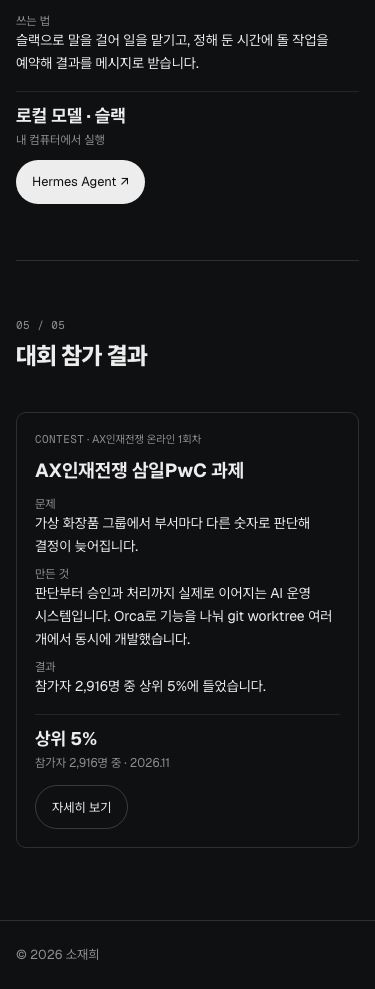
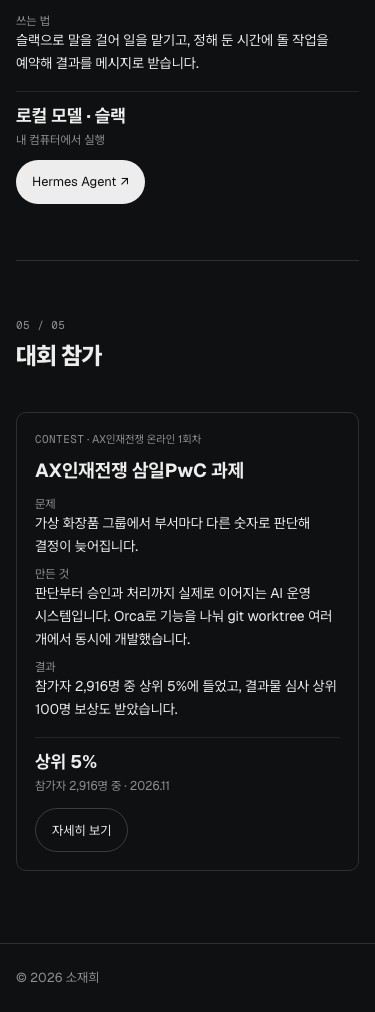
docs: record the shorter contest group name and retake its captures

diff --git a/src/app/ai/axwar/page.tsx b/src/app/ai/axwar/page.tsx
@@ -8,7 +8,7 @@ import { getAxwar, getHome } from "@/lib/content";
 import { pageMetadata } from "@/lib/site-meta";
 
 // AX인재전쟁 대회 결과 (docs/02-ia.md /ai/axwar). 돌아가기 링크 → 머리(대회 이름, 결과, 참가자, 인증서 카드, 덧붙임) → 본문 → 끝 버튼 줄(인증서 보기, AI로 일하는 방식) 순서다.
-// 글은 사이트 전용 글(content/site/axwar.md)이다. 홈과 /resume의 대회 결과 띠, /ai 맨 끝 대회 참가 결과 묶음의 카드가 이 페이지로 온다.
+// 글은 사이트 전용 글(content/site/axwar.md)이다. 홈과 /resume의 대회 결과 띠, /ai 맨 끝 대회 참가 묶음의 카드가 이 페이지로 온다.
 // 머리는 결과를 크게 보여 주는 이 페이지만의 모양이라 SectionHead를 쓰지 않는다. 메신저에서 링크를 열면
 // 첫 화면 안에 결과, 인증서 카드, 덧붙임이 다 들어오게 한 배치다(설계 배치 B, 카드는 2026-11-27 비교판 B).
 // 목차가 없는 서브페이지라 /ai/case, /ai/jake-english처럼 맨 위로 버튼과 다음 페이지 버튼은 두지 않는다.

diff --git a/src/lib/content.ts b/src/lib/content.ts
@@ -214,7 +214,7 @@ export type JakeEnglish = {
   stack: JakeEnglishStack[];
 };
 
-/** AX인재전쟁 대회 결과 사이트 전용 글 (content/site/axwar.md, /ai/axwar). 홈과 /resume의 대회 결과 띠, /ai 맨 끝 대회 참가 결과 묶음의 카드가 이 페이지로 온다 */
+/** AX인재전쟁 대회 결과 사이트 전용 글 (content/site/axwar.md, /ai/axwar). 홈과 /resume의 대회 결과 띠, /ai 맨 끝 대회 참가 묶음의 카드가 이 페이지로 온다 */
 export type Axwar = {
   /** 브라우저와 공유 제목의 앞부분(뒤에 " · 소재희") */
   title: string;

diff --git a/src/components/ai/ai-short.tsx b/src/components/ai/ai-short.tsx
@@ -4,7 +4,7 @@ import type { AiWork } from "@/lib/content";
 import { Eyebrow, Facts } from "./ai-text";
 
 // /ai의 짧은 카드 (docs/02-ia.md /ai). 원문이 다른 페이지(/work의 AI 절이나 /ai 아래 페이지)에 있는 항목이라
-// 한 줄씩만 쓰고 그곳으로 보낸다. 대회 참가 결과의 카드는 /ai/axwar로 간다.
+// 한 줄씩만 쓰고 그곳으로 보낸다. 대회 참가의 카드는 /ai/axwar로 간다.
 // 같은 글을 두 페이지에 싣지 않는다.
 export function AiShort({ work }: { work: AiWork }) {
   const titleId = `${work.slug}-title`;

diff --git a/src/app/ai/page.tsx b/src/app/ai/page.tsx
@@ -12,7 +12,7 @@ import { STORY_IMAGES } from "@/lib/jake-english-images";
 import { nextPage } from "@/lib/nav";
 import { pageMetadata } from "@/lib/site-meta";
 
-// AI로 일하는 방식 (docs/02-ia.md /ai). 머리 → 입구 띠 둘 → 목차 → 다섯 묶음(맨 끝은 대회 참가 결과). 머리 글은 홈 섹션과 같다.
+// AI로 일하는 방식 (docs/02-ia.md /ai). 머리 → 입구 띠 둘 → 목차 → 다섯 묶음(맨 끝은 대회 참가). 머리 글은 홈 섹션과 같다.
 const { ai } = getHome().sections;
 
 export const metadata: Metadata = pageMetadata({

diff --git a/docs/superpowers/plans/2026-11-27-ai-contest-section.md b/docs/superpowers/plans/2026-11-27-ai-contest-section.md
@@ -1,8 +1,8 @@
-# `/ai` 다섯째 묶음 "대회 참가 결과" 구현 계획
+# `/ai` 다섯째 묶음 "대회 참가" 구현 계획
 
 > **For agentic workers:** REQUIRED SUB-SKILL: Use superpowers:subagent-driven-development (recommended) or superpowers:executing-plans to implement this plan task-by-task. Steps use checkbox (`- [ ]`) syntax for tracking.
 
-**Goal:** `/ai` 맨 끝에 다섯째 묶음 "대회 참가 결과"를 더하고 AX인재전쟁 카드 하나를 두어 `/ai/axwar`로 보내며, `/ai/axwar` 끝 줄의 인증서 버튼을 되살리고, PR #69의 후속 작업 네 가지를 함께 끝냅니다.
+**Goal:** `/ai` 맨 끝에 다섯째 묶음 "대회 참가"를 더하고 AX인재전쟁 카드 하나를 두어 `/ai/axwar`로 보내며, `/ai/axwar` 끝 줄의 인증서 버튼을 되살리고, PR #69의 후속 작업 네 가지를 함께 끝냅니다.
 
 **Architecture:** 다른 항목처럼 항목 글 `content/site/ai/axwar.md`(짧은 카드, `group: contest`)를 더하고 `ai-page.md`에 묶음을 더하면 지금 `/ai` 코드가 그대로 그립니다. 바뀌는 코드는 목차의 데스크톱 칸 수(네 칸 → 다섯 칸)와 형(`AiGroup`)뿐입니다. 카드의 숫자와 문장이 `/ai/axwar` 글과 어긋나지 않는지는 내용 시험이 봅니다.
 
@@ -12,7 +12,7 @@
 
 ## Global Constraints
 
-- 묶음: id `contest`, 이름 `대회 참가 결과`, 맨 끝(`05 / 05`).
+- 묶음: id `contest`, 이름 `대회 참가`, 맨 끝(`05 / 05`).
 - 카드: slug `axwar`, order `10`, 짧은 카드(`more: /ai/axwar`), `links: []`. 글은 설계 문서 "카드" 표의 초안 그대로입니다. 문구 확인은 PR 때 따로 받습니다.
 - 카드에 새 사실을 쓰지 않습니다. 대회 기간("하루 남짓", "이틀", "N일", "N시간")도 쓰지 않습니다.
 - 홈과 `/resume`의 띠, `/ai` 맨 위 입구 상자 두 개는 바꾸지 않습니다. `/ai/axwar`는 끝 버튼 줄만 바꿉니다(Task 2). 머리와 인증서 카드는 그대로입니다.
@@ -39,7 +39,7 @@ Run: `npx playwright test -c .superpowers/pw-dev.config.ts <spec> [-g <이름>]`
 
 ## Review Focus
 
-- 가장 좁은 데스크톱 폭(1024)에서 목차 다섯 칸이 한 줄에 있고, "대회 참가 결과"가 꺾이지 않아야 합니다(사용자 조건). → Task 1의 목차 E2E
+- 가장 좁은 데스크톱 폭(1024)에서 목차 다섯 칸이 한 줄에 있고, "대회 참가"가 꺾이지 않아야 합니다(사용자 조건). → Task 1의 목차 E2E
 - 카드의 "자세히 보기"는 사이트 안 링크라 같은 창에서 열리고 ↗가 없어야 합니다. → Task 1의 짧은 카드 E2E
 - `/ai/axwar` 글의 결과나 참가자 수가 바뀌면 카드 숫자도 같이 바뀌어야 합니다. → Task 1의 내용 시험
 - 375와 320에서 카드가 가로 스크롤을 만들지 않아야 합니다. → `e2e/ai.spec.ts`의 기존 가로 스크롤 시험(지금 폭)
@@ -57,7 +57,7 @@ Run: `npx playwright test -c .superpowers/pw-dev.config.ts <spec> [-g <이름>]`
 - Modify: `src/components/ai/ai-index.tsx` (`lg:grid-cols-4` → `lg:grid-cols-5`, 주석의 "네 칸")
 - Modify: `src/components/ai/ai-short.tsx` (주석: 원문이 다른 페이지, `/work`의 절이나 `/ai` 아래 페이지에 있는 항목)
 - Modify: `src/app/ai/page.tsx` (주석의 "네 묶음")
-- Modify: `src/app/ai/axwar/page.tsx` (주석 "/ai에는 입구가 없다" → `/ai` 맨 끝 대회 참가 결과 카드도 이 페이지로 온다)
+- Modify: `src/app/ai/axwar/page.tsx` (주석 "/ai에는 입구가 없다" → `/ai` 맨 끝 대회 참가 카드도 이 페이지로 온다)
 - Modify: `content/site/axwar.md` (주석의 들어오는 길에 `/ai` 카드)
 - Test: `scripts/lib/content.test.mjs`, `e2e/ai.spec.ts`
 
@@ -69,11 +69,11 @@ Run: `npx playwright test -c .superpowers/pw-dev.config.ts <spec> [-g <이름>]`
   - "sources의 문장은 …" 시험: 항목의 `more`가 `/ai/axwar`이면 원문 대신 `squash(axwar.body.join(" "))`에서 찾습니다. 시험 이름은 "sources의 문장은 원문(동기화한 이력서, 포트폴리오, 카드가 가리키는 페이지 글)에 그대로 있다"로 바꿉니다.
   - "AI 작업 글 …" 시험: `more`는 `/^(\/work#[a-z-]+-ai|\/ai\/[a-z-]+)$/`에 맞아야 합니다.
   - "짧은 카드가 가리키는 /work의 절은 실제로 있다" → "짧은 카드가 가리키는 곳은 실제로 있다": `/work#…`는 지금처럼 절을, `/ai/<이름>`은 `src/app/ai/<이름>/page.tsx`가 있는지 봅니다.
-  - 새 시험 "대회 참가 결과 카드는 /ai/axwar로 가고, 숫자는 그 페이지 글과 같다":
+  - 새 시험 "대회 참가 카드는 /ai/axwar로 가고, 숫자는 그 페이지 글과 같다":
 
 ```js
 const card = aiWorks.find((w) => w.data.group === "contest" && w.data.more === "/ai/axwar");
-assert.ok(card, "대회 참가 결과에 /ai/axwar 카드가 없음");
+assert.ok(card, "대회 참가에 /ai/axwar 카드가 없음");
 assert.equal(card.data.metric.value, axwar.result);
 assert.equal(card.data.metric.label, `${axwar.participants} · ${axwar.date}`);
 assert.ok(card.data.sources?.length > 0, "sources 없음");
@@ -88,7 +88,7 @@ assert.doesNotMatch(Object.values(card.data).filter((v) => typeof v === "string"
 - [ ] **Step 3: 빨강 확인**
 
 Run: `node --test scripts/lib/content.test.mjs`
-Expected: "대회 참가 결과 카드는 …" 실패(카드 없음)
+Expected: "대회 참가 카드는 …" 실패(카드 없음)
 
 - [ ] **Step 4: 시험 커밋**
 
@@ -99,7 +99,7 @@ test(app): cover the contest section on /ai
 EOF
 ```
 
-- [ ] **Step 5: 글 더하기** `content/site/ai-page.md`의 groups 끝에 `{ id: contest, title: 대회 참가 결과 }`, `content/site/ai/axwar.md`는 설계 문서 "카드" 표의 초안과 `sources`. 글 끝 주석에 출처(`content/site/axwar.md`의 어느 칸과 문단인지), 숫자는 내용 시험이 페이지 글과 맞춰 본다는 것, 기간을 쓰지 않는 이유, 대회가 늘면 이 묶음에 글을 하나씩 더한다는 것을 씁니다.
+- [ ] **Step 5: 글 더하기** `content/site/ai-page.md`의 groups 끝에 `{ id: contest, title: 대회 참가 }`, `content/site/ai/axwar.md`는 설계 문서 "카드" 표의 초안과 `sources`. 글 끝 주석에 출처(`content/site/axwar.md`의 어느 칸과 문단인지), 숫자는 내용 시험이 페이지 글과 맞춰 본다는 것, 기간을 쓰지 않는 이유, 대회가 늘면 이 묶음에 글을 하나씩 더한다는 것을 씁니다.
 
 - [ ] **Step 6: 목차가 꺾이는 것 확인 (빨강)**
 
@@ -218,7 +218,7 @@ EOF
 
 - [ ] **Step 2: 캡처** 비교판 그림(작업 폴더 밖 임시 폴더)을 1배로 줄여 `board-now-*`, `board-ga-*`, `board-na-*`(1280, 375), `board-index-now-*`, `board-index-five-*`(1280, 375, 1024)로 옮깁니다. 구현 캡처는 개발 서버에서 같은 스크립트 방식으로 찍습니다: `after-1280`, `after-375`, `after-1280-dark`, `after-375-dark`(넷째 묶음 끝부터 푸터까지), `index-1280`, `index-1024`, `index-375`. 한 장이 1MB를 넘지 않게 합니다.
 
-- [ ] **Step 3: 문서 고치기** 설계 문서 "함께 고칠 문서"를 따릅니다. 뒤집은 결정은 날짜(2026-11-27)와 이유(상세 페이지가 `/ai` 아래 생겨 헤더의 AI 밑줄과 `/ai` 페이지가 어긋남, 사용자)를 적고, 옛 문장은 "처음에는 …"으로 남깁니다. IA `/ai` 절의 묶음 표에 `대회 참가 결과 | AX인재전쟁 삼일PwC 과제(axwar) | 짧은 카드, /ai/axwar로` 행을 더하고, "짧은 카드" 설명에 `/ai` 아래 페이지로 가는 경우를 더합니다. 비교한 안(가, 나, 이름 세 안과 고른 이름, 1024 확인값)과 AI 판단 표시를 씁니다.
+- [ ] **Step 3: 문서 고치기** 설계 문서 "함께 고칠 문서"를 따릅니다. 뒤집은 결정은 날짜(2026-11-27)와 이유(상세 페이지가 `/ai` 아래 생겨 헤더의 AI 밑줄과 `/ai` 페이지가 어긋남, 사용자)를 적고, 옛 문장은 "처음에는 …"으로 남깁니다. IA `/ai` 절의 묶음 표에 `대회 참가 | AX인재전쟁 삼일PwC 과제(axwar) | 짧은 카드, /ai/axwar로` 행을 더하고, "짧은 카드" 설명에 `/ai` 아래 페이지로 가는 경우를 더합니다. 비교한 안(가, 나, 이름 세 안과 고른 이름, 1024 확인값)과 AI 판단 표시를 씁니다.
 
 - [ ] **Step 4: 확인과 커밋**
 
@@ -265,7 +265,7 @@ EOF
 Run: `npm run verify`
 Expected: 로컬 전용 검사 두 개(`sync --check`, `check:stack`)를 뺀 모든 줄 통과. 그 둘은 main에서도 나는 기존 실패입니다. 다른 실패가 있으면 요약 표와 실패 내용을 그대로 보고합니다. 끝나면 개발 서버를 다시 띄우고(`.next/dev` 지움) `/ai`의 CSS에 `grid-cols-5`가 있는지 봅니다.
 
-- [ ] **Step 2: devlog** `docs/devlog/2026-11-27-ai-contest-section.md` (`docs/devlog/README.md` 형식). 흐름 표: 띠를 `/ai`에 싣지 않던 결정을 뒤집음(사용자 지적), 모양 가(main 세션 추천, 승인), 이름(AI 추천 "대회 결과" → 사용자가 다른 대회도 담게 "대회 참가 결과"), 목차 다섯 칸(AI 판단), `/ai/axwar` 끝 인증서 버튼 되살림(사용자 요청). 검증에 verify 결과.
+- [ ] **Step 2: devlog** `docs/devlog/2026-11-27-ai-contest-section.md` (`docs/devlog/README.md` 형식). 흐름 표: 띠를 `/ai`에 싣지 않던 결정을 뒤집음(사용자 지적), 모양 가(main 세션 추천, 승인), 이름(AI 추천 "대회 결과" → 사용자가 다른 대회도 담게 "대회 참가"), 목차 다섯 칸(AI 판단), `/ai/axwar` 끝 인증서 버튼 되살림(사용자 요청). 검증에 verify 결과.
 
 ```bash
 git add docs/devlog/2026-11-27-ai-contest-section.md

diff --git a/docs/01-prd.md b/docs/01-prd.md
@@ -26,7 +26,7 @@
 |---|---|---|
 | F1 | 홈 `/` | 첫 화면은 첫 줄과 짧은 움직임으로 시작해, 같은 화면 안에 소개 두 줄(다루는 범위와 일하는 방식), 기술 층 여섯 개, 서비스 세 개 증거 목록(이름, 한 줄 설명, 라이브 링크), 이메일과 GitHub가 남는다. 움직임은 [04-motion.md](04-motion.md)를 따르고, 움직임 줄이기 설정에서는 마지막 장면만 보인다. 이력서는 헤더와 About에서 연결한다(2026-10-17 첫 화면의 이력서 보기 링크를 뺐다). 그 아래에 운영 중인 서비스 카드 세 장, AI로 일하는 방식 카드 네 장(카드 위에 대회 결과 띠 한 줄, 2026-11-23. 띠의 버튼은 대회 결과 페이지 `/ai/axwar`로 간다, 1차 뒤 추가 2026-11-27), 짧은 About, 푸터가 이어진다([02-ia.md](02-ia.md#홈)). 경력 목록은 홈에 두지 않는다. 아래 섹션에는 움직임이 없다 |
 | F2 | 포트폴리오 `/work` | Recueve, ProWith, GENYS Lotto AI, Jake English의 상세(포트폴리오의 프로젝트 상세와 구성도, "보시는 방법")와, 의뢰받아 만든 사이트 세 개(Brain House, AI TOOLS, House 9 objet 안내서)를 담는다. 서비스마다 페이지를 나눌지(`/work/[slug]`)는 F2 기획에서 정한다. 원본에 없는 작업은 사이트 전용 글(`content/site/`)을 쓴다 |
-| F3 | AI로 일하는 방식 `/ai` | AI를 활용해 만든 것과 일하는 방식을 한 페이지에 싣는다: 이 사이트, 작업 환경, PR 리뷰 스킬, ProWith 하네스, Recueve AI 자동 채움, 영상 제작(영상 여러 편을 한 항목에), 이미지 MCP, Jake Wiki, Jake Hermes, 대회 참가 결과(AX인재전쟁). 여기에 Jake English(`/ai` 맨 위 띠와 `/ai/jake-english`)를 더한다. 대회 결과 페이지 `/ai/axwar`도 `/ai` 아래 주소로 둔다. `/ai` 맨 끝 묶음 "대회 참가 결과"의 카드와 홈, `/resume`의 대회 결과 띠로 들어간다(1차 뒤 추가 2026-11-27, [02-ia.md](02-ia.md#aiaxwar-ax인재전쟁-대회-결과)). 처음에는 `/ai`에 입구를 두지 않았지만, 상세 페이지가 `/ai` 아래에 생겨 헤더의 AI 표시와 `/ai` 페이지가 어긋나 같은 날 뒤집었다. 항목마다 문제, 만든 것, 결과(확인 가능한 근거)를 쓴다. 원문이 다른 페이지(`/work`의 AI 절, `/ai/axwar`)에 있는 항목은 짧은 카드로 두고 그곳으로 보낸다 |
+| F3 | AI로 일하는 방식 `/ai` | AI를 활용해 만든 것과 일하는 방식을 한 페이지에 싣는다: 이 사이트, 작업 환경, PR 리뷰 스킬, ProWith 하네스, Recueve AI 자동 채움, 영상 제작(영상 여러 편을 한 항목에), 이미지 MCP, Jake Wiki, Jake Hermes, 대회 참가(AX인재전쟁). 여기에 Jake English(`/ai` 맨 위 띠와 `/ai/jake-english`)를 더한다. 대회 결과 페이지 `/ai/axwar`도 `/ai` 아래 주소로 둔다. `/ai` 맨 끝 묶음 "대회 참가"의 카드와 홈, `/resume`의 대회 결과 띠로 들어간다(1차 뒤 추가 2026-11-27, [02-ia.md](02-ia.md#aiaxwar-ax인재전쟁-대회-결과)). 처음에는 `/ai`에 입구를 두지 않았지만, 상세 페이지가 `/ai` 아래에 생겨 헤더의 AI 표시와 `/ai` 페이지가 어긋나 같은 날 뒤집었다. 항목마다 문제, 만든 것, 결과(확인 가능한 근거)를 쓴다. 원문이 다른 페이지(`/work`의 AI 절, `/ai/axwar`)에 있는 항목은 짧은 카드로 두고 그곳으로 보낸다 |
 | F4 | 이력서 `/resume` | 이력서 md를 문장을 고치지 않고 그대로 그린다. 전화번호는 동기화에서 뺀다. 절 목차와 인쇄 버튼을 두고, 브라우저로 인쇄하면 A4로 깔끔하게 나온다. PDF 파일은 따로 올리지 않는다 |
 | F5 | 콘텐츠 동기화 `npm run sync` | 허용 목록에 있는 원본 파일만 가져온다. 연락처 표에서 전화번호를 지운다. 결과를 `content/synced/`에 커밋한다([ADR-0003](adr/0003-content-source-and-sync.md)) |
 | F6 | 검증 `npm run verify` | 타입체크, 린트, 테스트, 빌드, 민감정보 검사, 첫 화면 움직임 코드 용량(gzip 10KB 이하), 주요 화면 캡처를 한 번에 돌린다. 하나라도 실패하면 작업이 끝나지 않은 것이다. 실패해도 끝까지 돌리고 표로 요약하며, 빌드가 실패하면 빌드에 기대는 검사는 건너뛴다. 로컬 전용 검사(동기화 확인, 기술 층)는 경로가 없으면 건너뛴다. 캡처는 `test-results/captures/`에 남기고, 정한 캡처가 모두 생겼는지만 확인한다(픽셀 비교는 하지 않는다). CI는 검사를 단계별로 돌리고, 캡처는 통과해도 artifact로 올린다. verify의 검사 목록과 CI 단계가 같은지 테스트로 확인한다 |

diff --git a/docs/devlog/2026-11-27-ai-contest-section.md b/docs/devlog/2026-11-27-ai-contest-section.md
@@ -1,8 +1,8 @@
-# 2026-11-27 `/ai` 대회 참가 결과 묶음
+# 2026-11-27 `/ai` 대회 참가 묶음
 
 ## 한 일
 
-- `/ai` 맨 끝에 다섯째 묶음 "대회 참가 결과"를 더했습니다. AX인재전쟁 카드 하나를 두고, "자세히 보기"로 `/ai/axwar`에 갑니다. 맨 위 목차는 데스크톱에서 다섯 칸이 됐습니다.
+- `/ai` 맨 끝에 다섯째 묶음 "대회 참가"를 더했습니다. AX인재전쟁 카드 하나를 두고, "자세히 보기"로 `/ai/axwar`에 갑니다. 맨 위 목차는 데스크톱에서 다섯 칸이 됐습니다.
 - 카드는 ProWith 하네스, Recueve AI 자동 채움과 같은 짧은 카드입니다. 글은 `/ai/axwar`의 본문과 덧붙임 줄을 줄인 것이고 새 사실은 없습니다. 숫자 칸과 문장 조각은 내용 시험이 `/ai/axwar` 글과 대조합니다.
 - `/ai/axwar` 끝 버튼 줄에 채운 버튼 "인증서 보기 ↗"를 되살렸습니다. 머리 아래 인증서 카드는 그대로입니다.
 - 대회 결과 띠의 시험이 두 줄을 함께 보고, "2일 만에"처럼 숫자로 쓴 기간도 막습니다.
@@ -15,7 +15,7 @@
 |---|---|---|---|
 | 1 | (2026-11-23) 대회 결과 띠는 홈에 두고 `/ai`에는 싣지 않음. PR #69도 이 결정을 따라 `/ai`에 입구를 두지 않음 | 사용자가 `/ai/axwar`는 `/ai` 아래라 헤더 "AI"에 밑줄이 붙는데 `/ai`에는 들어갈 길이 없다고 짚음 | 결정을 뒤집어 `/ai` 맨 끝에 묶음을 둠. 홈과 `/resume`은 띠 그대로 |
 | 2 | 묶음 안 모양 두 안(항목 카드, 큰 "상위 5%"와 인증서 그림의 요약 상자)을 개발 서버 화면에 얹은 비교판으로 보이고 항목 카드를 추천 | 승인 | 짧은 카드 |
-| 3 | 묶음 이름으로 "대회 결과"를 추천 | 사용자가 다른 대회 결과도 카드로 더할 수 있게 "대회 참가 결과"로 정함. 목차에서 1024와 1280 모두 한 줄에 드는지 확인하라는 조건을 붙임 | 재 보니 한 줄. 카드 머리글도 `AWARD`에서 `CONTEST`로 맞춤 |
+| 3 | 묶음 이름으로 "대회 결과"를 추천 | 사용자가 다른 대회 결과도 카드로 더할 수 있게 "대회 참가 결과"로 정함. 목차에서 1024와 1280 모두 한 줄에 드는지 확인하라는 조건을 붙임 | 재 보니 한 줄. 카드 머리글도 `AWARD`에서 `CONTEST`로 맞춤. 구현 화면을 본 뒤 사용자가 결과는 카드가 보여 준다며 "대회 참가"로 줄임 |
 | 4 | 목차를 데스크톱 다섯 칸으로 나눠 한 줄 유지 | 비교판에 1024 캡처로 보임 | E2E가 1024와 1280에서 칸 위치와 묶음 이름 높이를 봄 |
 | 5 | (PR #69) 인증서로 가는 길을 머리 아래 카드 하나로 줄여 둠 | 사용자가 본문 끝에서도 인증서로 가게 끝 줄의 채운 버튼을 되살리자고 함. 카드 근처에는 두지 않음 | 끝 줄은 "인증서 보기"와 "AI로 일하는 방식" |
 

diff --git a/docs/03-design.md b/docs/03-design.md
@@ -170,8 +170,8 @@
 
 - 그림 상자는 `surface` 바탕에 `line` 테두리입니다. 홈 카드의 도식을 그대로 쓰고, PR 리뷰 스킬, 이미지 MCP, 작업 환경 도식만 새로 그립니다. 스펙 축은 점선으로 따로 보입니다.
 - 영상 제작 항목은 머리(머리글, 이름, 제목 문장, 문제)를 다른 항목의 글 칸 너비로 두고, 그 아래에 영상 칸을 둡니다. 만든 방법은 단락 글자와 같은 크기이고 이름표(만든 것)는 붙이지 않습니다. 영상 이름이 그 칸의 이름표 구실을 합니다(2026-11-11).
-- 목차는 데스크톱에서 묶음 다섯 칸이고, 칸 안에 항목 링크를 세로로 둡니다. 모바일은 묶음마다 한 줄이고 항목 링크는 가로로 이어 씁니다. 2026-11-27에 "대회 참가 결과"를 더하며 네 칸에서 다섯 칸이 됐습니다. 가장 좁은 데스크톱 폭(1024)에서도 칸이 한 줄이고 묶음 이름이 꺾이지 않는지 E2E가 1024와 1280에서 봅니다. 묶음을 더 늘리면 이 폭부터 봅니다.
-- "대회 참가 결과" 묶음(2026-11-27)은 새 값 없이 짧은 카드를 그대로 씁니다. 캡처는 [docs/design/ai-contest/](design/ai-contest/)에 있습니다.
+- 목차는 데스크톱에서 묶음 다섯 칸이고, 칸 안에 항목 링크를 세로로 둡니다. 모바일은 묶음마다 한 줄이고 항목 링크는 가로로 이어 씁니다. 2026-11-27에 "대회 참가"를 더하며 네 칸에서 다섯 칸이 됐습니다. 가장 좁은 데스크톱 폭(1024)에서도 칸이 한 줄이고 묶음 이름이 꺾이지 않는지 E2E가 1024와 1280에서 봅니다. 묶음을 더 늘리면 이 폭부터 봅니다.
+- "대회 참가" 묶음(2026-11-27)은 새 값 없이 짧은 카드를 그대로 씁니다. 캡처는 [docs/design/ai-contest/](design/ai-contest/)에 있습니다.
 
 ## F4에서 정한 값
 

diff --git a/docs/superpowers/specs/2026-11-27-ai-axwar-design.md b/docs/superpowers/specs/2026-11-27-ai-axwar-design.md
@@ -16,7 +16,7 @@
 
 ## 하지 않을 것
 
-- 헤더 메뉴에 넣지 않습니다. `/ai`에도 입구를 두지 않습니다. 띠를 홈에만 두고 `/ai`에는 싣지 않는다는 2026-11-23 결정을 그대로 둡니다. 페이지 주소만 `/ai` 아래입니다. (같은 날 뒤집음: `/ai` 맨 끝에 묶음 "대회 참가 결과"를 두어 그 카드로 들어옵니다. 설계 [2026-11-27-ai-contest-section-design.md](2026-11-27-ai-contest-section-design.md))
+- 헤더 메뉴에 넣지 않습니다. `/ai`에도 입구를 두지 않습니다. 띠를 홈에만 두고 `/ai`에는 싣지 않는다는 2026-11-23 결정을 그대로 둡니다. 페이지 주소만 `/ai` 아래입니다. (같은 날 뒤집음: `/ai` 맨 끝에 묶음 "대회 참가"를 두어 그 카드로 들어옵니다. 설계 [2026-11-27-ai-contest-section-design.md](2026-11-27-ai-contest-section-design.md))
 - `/resume` 본문의 "이틀 만에"(커리어 원본 문장)는 고치지 않습니다.
 - 맨 위로 버튼과 다음 페이지 버튼은 두지 않습니다. `/ai/case`, `/ai/jake-english`와 같은 목차 없는 하위 페이지입니다. (AI 판단)
 

diff --git a/docs/todo/20261127_01_todo_axwar_followups.md b/docs/todo/20261127_01_todo_axwar_followups.md
@@ -1,7 +1,7 @@
 # TODO: /ai/axwar 후속 작업
 
 > 작성: 2026-11-27
-> 상태: **완료** (2026-11-27, `/ai` 대회 참가 결과 PR). 1번은 띠 두 줄을 함께 보고 숫자로 쓴 기간도 막는 시험으로, 2번은 검색과 공유 가이드(페이지를 더할 때 5번)와 AI 사례 가이드(바깥 증빙 링크 카드 절)에 남겼습니다. 3번은 이 PR이 `/ai/axwar` 머리를 바꾸지 않아 고칠 것이 없고, 같은 기준을 `docs/03-design.md` AX인재전쟁 절에 한 줄로 남겼습니다.
+> 상태: **완료** (2026-11-27, `/ai` 대회 참가 PR). 1번은 띠 두 줄을 함께 보고 숫자로 쓴 기간도 막는 시험으로, 2번은 검색과 공유 가이드(페이지를 더할 때 5번)와 AI 사례 가이드(바깥 증빙 링크 카드 절)에 남겼습니다. 3번은 이 PR이 `/ai/axwar` 머리를 바꾸지 않아 고칠 것이 없고, 같은 기준을 `docs/03-design.md` AX인재전쟁 절에 한 줄로 남겼습니다.
 > 관련: PR #69 (`/ai/axwar` 대회 결과 페이지), 최종 검토에서 Minor로 남긴 것
 
 ## 할 일
